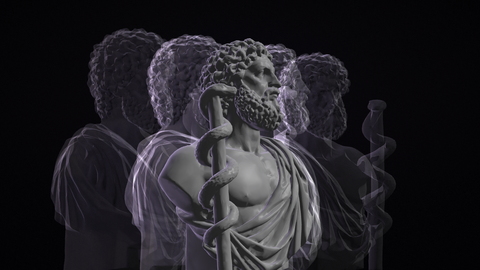
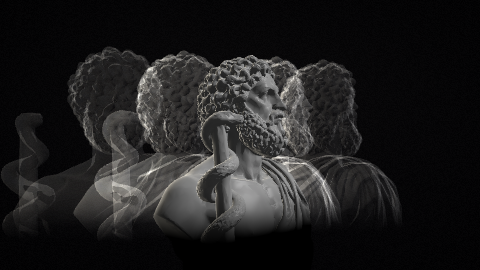
Sculpture, Echo: turn half as fast, frame the upper body (the plinth fades into the dark); Pillars: pillars near the camera dissolve instead of clipping

diff --git a/visualizers/sculpture/visualizer.js b/visualizers/sculpture/visualizer.js
@@ -19,7 +19,7 @@ precision mediump float;
 varying vec3 vNor; varying vec3 vPos; varying vec2 vUv;
 uniform sampler2D uTex; uniform float uHasTex;
 uniform vec3 uKey; uniform float uKeyI; uniform vec3 uRim; uniform vec3 uTint; uniform float uRimI;
-uniform vec3 uEye; uniform float uFog;
+uniform vec3 uEye; uniform float uFog; uniform vec2 uCut;
 void main() {
   vec3 n = normalize(vNor);
   vec3 v = normalize(uEye - vPos);
@@ -31,6 +31,7 @@ void main() {
   vec3 col = base * (dif * uKeyI + wrap * 0.05 * uKeyI + 0.015) + spe * 0.35 * uKeyI + uTint * rim * uRimI;
   float d = length(uEye - vPos);
   col *= exp(-uFog * d * d);
+  col *= smoothstep(uCut.x, uCut.y, vPos.y); // the plinth and the lower torso sink into the dark
   gl_FragColor = vec4(pow(col, vec3(0.4545)), 1.0);
 }`
 
@@ -55,6 +56,7 @@ let bgBuf = null
 let model = null // [{ vbo, ibo, count, type, tex }]
 let span = 1 // the model's size (for the camera distance)
 let center = [0, 0, 0]
+let height = 1 // the model's height
 let loading = false
 
 let shot = 1
@@ -62,7 +64,7 @@ let shotAt = 0
 let lastBeats = 0
 let flash = 0
 let angle = 0
-let spin = 0.35 // rad/s, sign = direction
+let spin = 0.17 // rad/s, sign = direction
 let jolt = 0
 let last = 0
 
@@ -109,6 +111,7 @@ function upload(glb) {
   const big = !!gl.getExtension('OES_element_index_uint') || typeof WebGL2RenderingContext !== 'undefined'
   span = Math.max(glb.max[0] - glb.min[0], glb.max[1] - glb.min[1], glb.max[2] - glb.min[2]) || 1
   center = [0, 1, 2].map((i) => (glb.min[i] + glb.max[i]) / 2)
+  height = glb.max[1] - glb.min[1] || 1
   model = glb.meshes.filter((m) => m.indices && (big || !(m.indices instanceof Uint32Array))).map((m) => {
     const n = m.position.length / 3
     const data = new Float32Array(n * 8)
@@ -163,11 +166,11 @@ parrotify.register({
       lastBeats = f.beats
       flash = 1
       if (f.beats % 4 === 0 && f.time - shotAt > 1.2) { shot++; shotAt = f.time }
-      if (rnd(f.beats * 3.7) < 0.25) { spin = -spin; jolt = -Math.sign(spin) * 0.25 }
+      if (rnd(f.beats * 3.7) < 0.25) { spin = -spin; jolt = -Math.sign(spin) * 0.12 }
     }
     if (f.time - shotAt > 7) { shot++; shotAt = f.time }
     flash *= Math.exp(-dt * 7)
-    const speed = Math.sign(spin) * (0.25 + f.bass * 1.6)
+    const speed = Math.sign(spin) * (0.12 + f.bass * 0.8)
     spin += (speed - spin) * Math.min(1, dt * 3)
     jolt *= Math.exp(-dt * 6)
     angle += (spin + jolt * 8) * dt
@@ -180,9 +183,9 @@ parrotify.register({
     // the shot: close-up / bust / low angle, from a side; slow dolly in
     const kind = Math.floor(rnd(shot) * 3)
     const side = (rnd(shot + 0.4) - 0.5) * 2.4
-    const dist = span * ([0.95, 1.6, 1.3][kind] - t * 0.025)
-    const hgt = span * ([0.18, 0.05, -0.32][kind] + Math.sin(t * 0.2) * 0.03)
-    const look = [center[0], center[1] + span * [0.22, 0.05, 0.12][kind], center[2]]
+    const dist = span * ([0.95, 1.3, 1.15][kind] - t * 0.025)
+    const hgt = span * ([0.18, 0.08, -0.18][kind] + Math.sin(t * 0.2) * 0.03)
+    const look = [center[0], center[1] + span * [0.24, 0.16, 0.2][kind], center[2]]
     const eye = [look[0] + Math.sin(side) * dist, look[1] + hgt, look[2] + Math.cos(side) * dist]
     // rule of thirds: the bust stands left or right of the player in the middle, not behind it
     const right = norm(cross(sub(look, eye), [0, 1, 0]))
@@ -222,6 +225,7 @@ parrotify.register({
     gl.uniform1f(U('uRimI'), 0.4 + f.high * 1.6)
     gl.uniform3fv(U('uEye'), eye)
     gl.uniform1f(U('uFog'), 0.08 / (span * span))
+    gl.uniform2f(U('uCut'), -height * 0.2, -height * 0.02) // world y: 0 = the model's middle
     const aPos = gl.getAttribLocation(prog, 'aPos'), aNor = gl.getAttribLocation(prog, 'aNor'), aUv = gl.getAttribLocation(prog, 'aUv')
     for (const part of model) {
       gl.bindBuffer(gl.ARRAY_BUFFER, part.vbo)

diff --git a/visualizers/echo/visualizer.js b/visualizers/echo/visualizer.js
@@ -18,7 +18,7 @@ precision mediump float;
 varying vec3 vNor; varying vec3 vPos; varying vec2 vUv;
 uniform sampler2D uTex; uniform float uHasTex;
 uniform vec3 uKey; uniform float uKeyI; uniform vec3 uRim; uniform vec3 uTint; uniform float uRimI;
-uniform vec3 uEye; uniform float uFog; uniform float uAlpha;
+uniform vec3 uEye; uniform float uFog; uniform float uAlpha; uniform vec2 uCut;
 void main() {
   vec3 n = normalize(vNor);
   vec3 v = normalize(uEye - vPos);
@@ -30,6 +30,7 @@ void main() {
   vec3 col = base * (dif * uKeyI + wrap * 0.05 * uKeyI + 0.015) + spe * 0.35 * uKeyI + uTint * rim * uRimI;
   float d = length(uEye - vPos);
   col *= exp(-uFog * d * d);
+  col *= smoothstep(uCut.x, uCut.y, vPos.y); // the plinth and the lower torso sink into the dark
   gl_FragColor = vec4(pow(col, vec3(0.4545)), uAlpha);
 }`
 
@@ -54,6 +55,7 @@ let bgBuf = null
 let model = null // [{ vbo, ibo, count, type, tex }]
 let span = 1 // the model's size (for the camera distance)
 let center = [0, 0, 0]
+let height = 1 // the model's height
 let loading = false
 
 let shot = 1
@@ -110,6 +112,7 @@ function upload(glb) {
   const big = !!gl.getExtension('OES_element_index_uint') || typeof WebGL2RenderingContext !== 'undefined'
   span = Math.max(glb.max[0] - glb.min[0], glb.max[1] - glb.min[1], glb.max[2] - glb.min[2]) || 1
   center = [0, 1, 2].map((i) => (glb.min[i] + glb.max[i]) / 2)
+  height = glb.max[1] - glb.min[1] || 1
   model = glb.meshes.filter((m) => m.indices && (big || !(m.indices instanceof Uint32Array))).map((m) => {
     const n = m.position.length / 3
     const data = new Float32Array(n * 8)
@@ -167,7 +170,7 @@ parrotify.register({
     }
     if (f.time - shotAt > 7) { shot++; shotAt = f.time }
     flash *= Math.exp(-dt * 10)
-    angle += (0.4 + f.bass * 1.8) * dt
+    angle += (0.2 + f.bass * 0.9) * dt
     trail.unshift(angle)
     if (trail.length > 60) trail.length = 60
 
@@ -195,9 +198,9 @@ parrotify.register({
     const t = f.time - shotAt
     const kind = Math.floor(rnd(shot) * 3)
     const side = (rnd(shot + 0.4) - 0.5) * 2.0
-    const dist = span * ([1.5, 2.1, 1.8][kind] - t * 0.025)
-    const look = [center[0], center[1] + span * [0.15, 0.0, 0.08][kind], center[2]]
-    const eye = [look[0] + Math.sin(side) * dist, look[1] + span * [0.1, 0.02, -0.25][kind], look[2] + Math.cos(side) * dist]
+    const dist = span * ([1.3, 1.6, 1.45][kind] - t * 0.025)
+    const look = [center[0], center[1] + span * [0.22, 0.14, 0.18][kind], center[2]]
+    const eye = [look[0] + Math.sin(side) * dist, look[1] + span * [0.1, 0.05, -0.15][kind], look[2] + Math.cos(side) * dist]
     const key = norm([Math.sin(side + 1.4), 0.9, Math.cos(side + 1.4)])
     const view = lookAt(eye, look, [0, 1, 0])
     const proj = persp(0.75, f.pw / Math.max(1, f.ph), span * 0.05, span * 12)
@@ -210,11 +213,12 @@ parrotify.register({
     gl.uniform3fv(U('uTint'), tint)
     gl.uniform3fv(U('uEye'), eye)
     gl.uniform1f(U('uFog'), 0.05 / (span * span))
+    gl.uniform2f(U('uCut'), -height * 0.2, -height * 0.02) // world y: 0 = the model's middle
     const aPos = gl.getAttribLocation(prog, 'aPos'), aNor = gl.getAttribLocation(prog, 'aNor'), aUv = gl.getAttribLocation(prog, 'aUv')
     // the ghosts first (behind, see-through, added up), then the bust itself
     for (let gi = 4; gi >= 0; gi--) {
       const lag = gi * 8
-      const a = gi === 0 ? angle : angle + ghostDir * (angle - (trail[Math.min(lag, trail.length - 1)] ?? angle)) * 1.5
+      const a = gi === 0 ? angle : angle + ghostDir * (angle - (trail[Math.min(lag, trail.length - 1)] ?? angle)) * 2.5
       const offset = gi === 0 ? 0 : (gi % 2 ? 1 : -1) * span * 0.12 * gi
       const m = rotY(a, 1, center)
       m[12] += offset

diff --git a/visualizers/pillars/visualizer.js b/visualizers/pillars/visualizer.js
@@ -39,7 +39,11 @@ void main() {
             + uTint * vWave * (0.15 + 0.85 * vTop) * (0.4 + uFlash * 0.8);
   vec3 col = stone + glow;
   float d = length(uEye - vPos);
-  col *= exp(-0.006 * d * d);
+  // close to the camera a pillar dissolves (dithered, like in games) instead of clipping into the lens
+  float near = smoothstep(0.9, 3.2, d);
+  float noise = fract(52.9829189 * fract(dot(gl_FragCoord.xy, vec2(0.06711056, 0.00583715))));
+  if (near < noise) discard;
+  col *= exp(-0.006 * d * d) * near;
   gl_FragColor = vec4(pow(col, vec3(0.4545)), 1.0);
 }`
 
